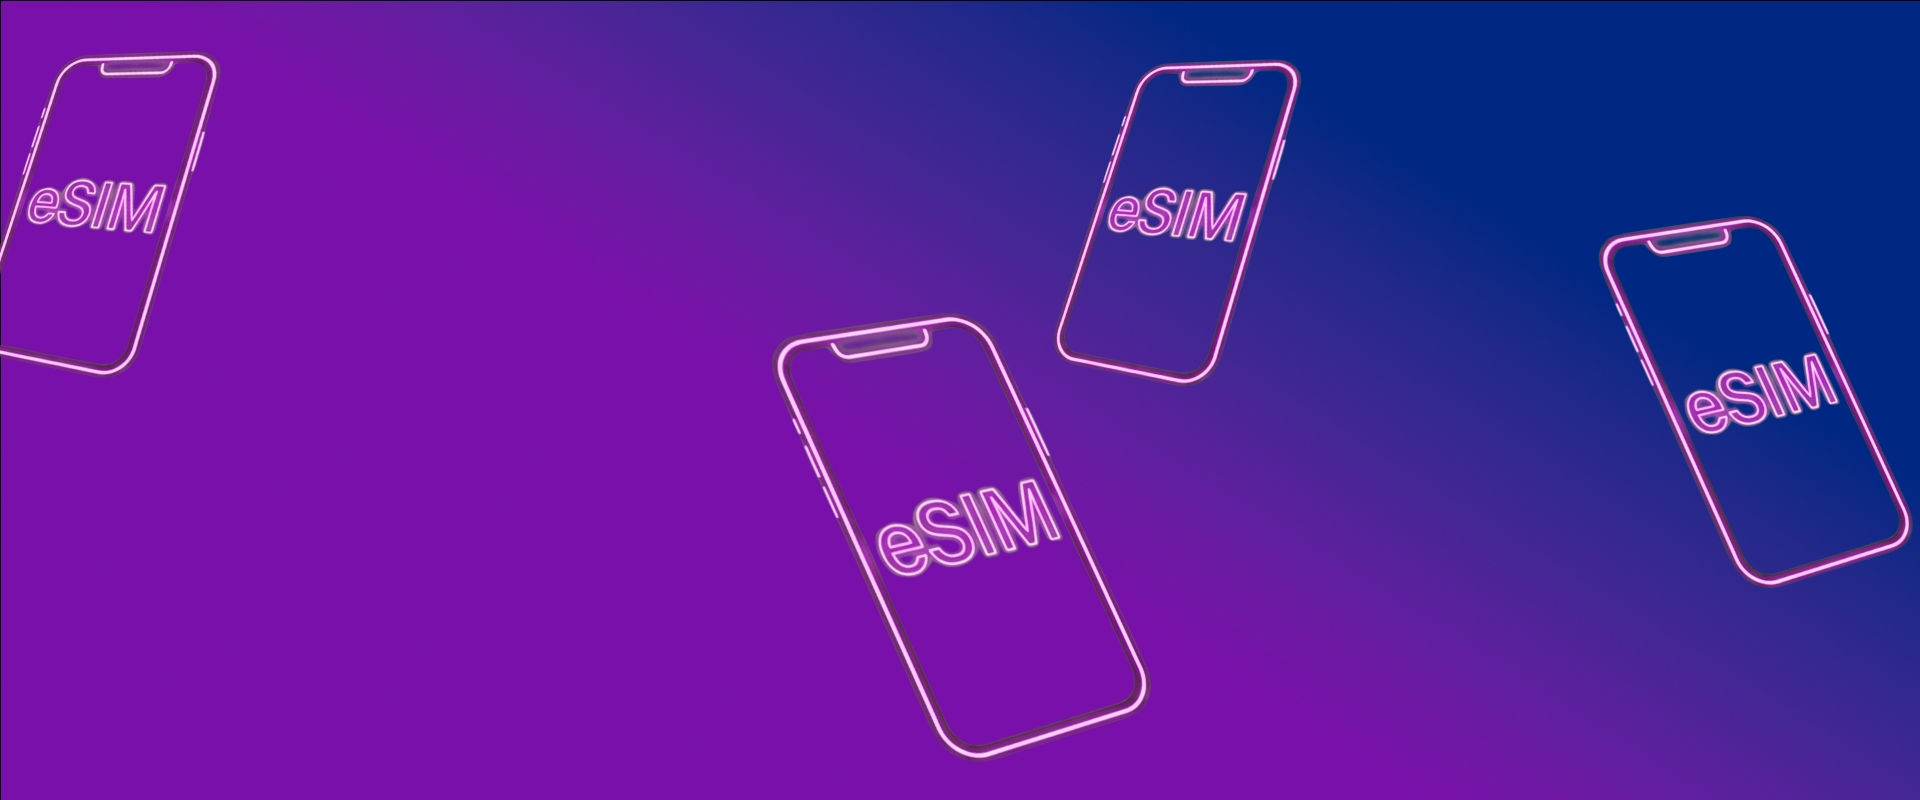
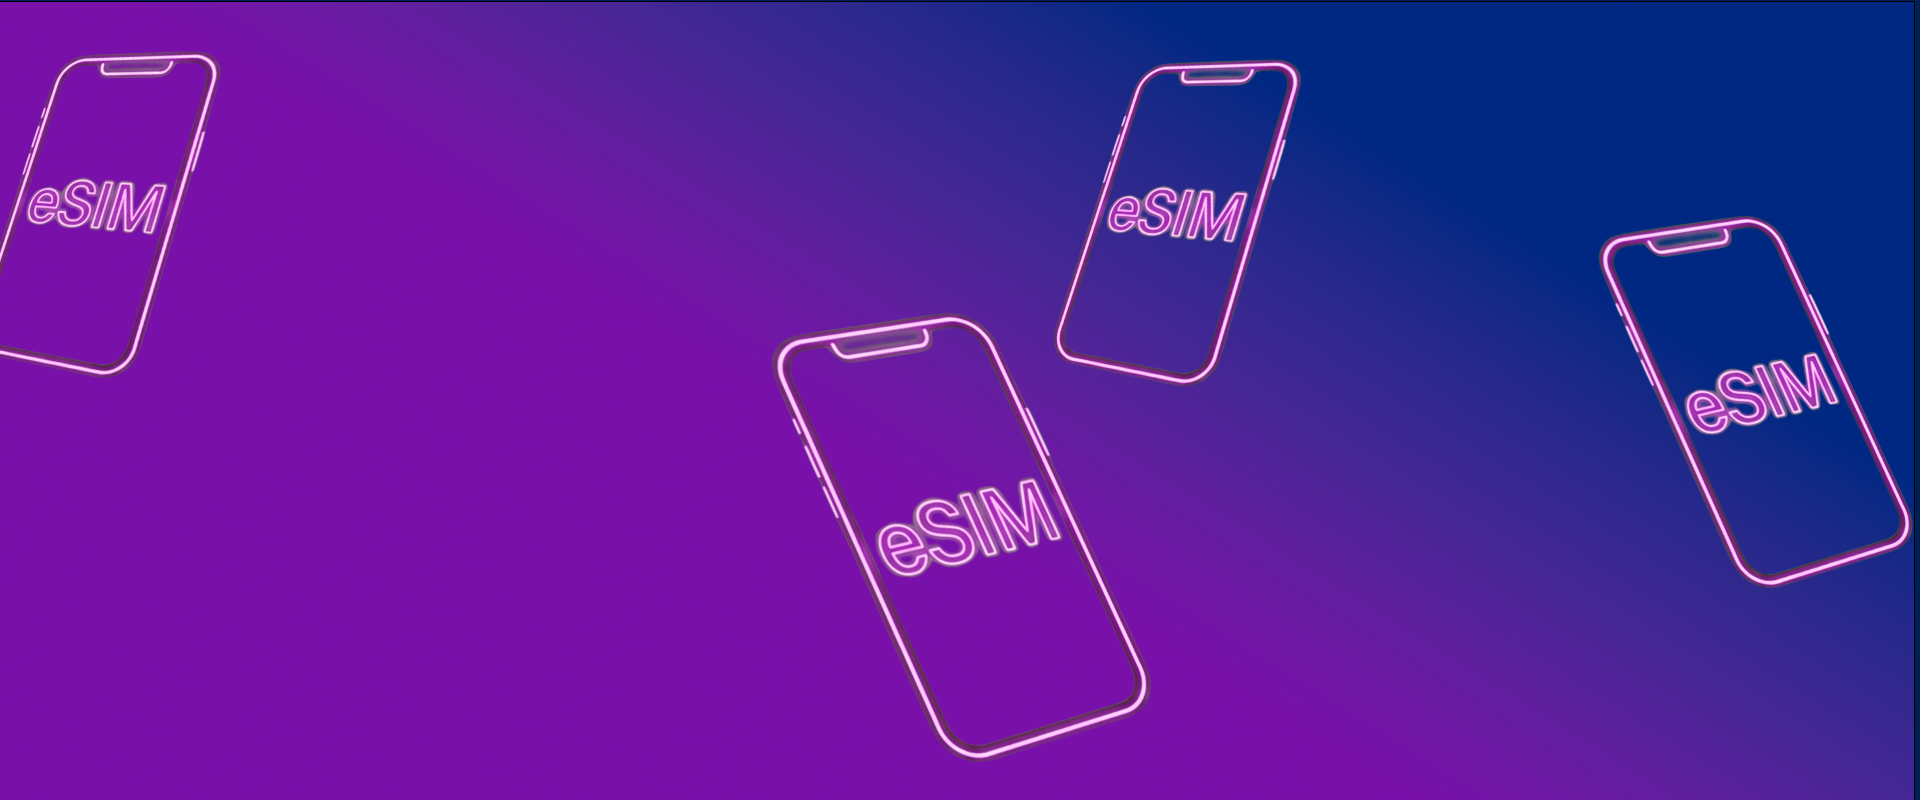
Ajustes Visuales

Changed region(s): [[0.9688, 0.0, 1.0, 0.0312]]

diff --git a/apps/web/src/pages/landing/movistar/v1/HeroMovistar.tsx b/apps/web/src/pages/landing/movistar/v1/HeroMovistar.tsx
@@ -39,7 +39,12 @@ export function Hero() {
             <img
                 src="/assets/maxi_avatar.png"
                 alt="Maxi"
-                className="hidden md:block absolute bottom-0 left-1/2 -translate-x-1/2 lg:translate-x-[-45%] h-[110%] max-h-125 w-auto object-contain drop-shadow-2xl pointer-events-none select-none z-10"
+                className="hidden md:block absolute bottom-0 left-[55%] -translate-x-1/2 lg:translate-x-[-45%] h-[110%] max-h-125 w-auto object-contain drop-shadow-2xl pointer-events-none select-none z-10"
+            />
+            <img
+                src="/assets/logo-movistar.png"
+                alt="Maxi"
+                className="hidden md:block absolute top-20 left-[45%] -translate-x-1/2 lg:translate-x-[-45%] h-[10%] max-h-125 w-auto object-contain drop-shadow-2xl pointer-events-none select-none z-10"
             />
             <div className="relative mx-auto max-w-full px-4 py-3 md:py-7 flex flex-col md:flex-row items-center gap-6 md:gap-10">
                 {/* Copy izquierdo */}

diff --git a/apps/web/src/pages/landing/att/v1/HeroAtt.tsx b/apps/web/src/pages/landing/att/v1/HeroAtt.tsx
@@ -39,7 +39,13 @@ export function Hero() {
             <img
                 src="/assets/att_avatar.png"
                 alt="Maxi"
-                className="hidden md:block absolute bottom-0 left-1/2 -translate-x-1/2 lg:translate-x-[-45%] h-[110%] max-h-125 w-auto object-contain drop-shadow-2xl pointer-events-none select-none z-10"
+                className="hidden md:block absolute bottom-0 left-[55%] -translate-x-1/2 lg:translate-x-[-45%] h-[110%] max-h-125 w-auto object-contain drop-shadow-2xl pointer-events-none select-none z-10"
+            />
+
+             <img
+                src="/assets/logo_att.png"
+                alt="Maxi"
+                className="hidden md:block absolute top-20 left-[45%] -translate-x-1/2 lg:translate-x-[-45%] h-[15%] max-h-125 w-auto object-contain drop-shadow-2xl pointer-events-none select-none z-10"
             />
             <div className="relative mx-auto max-w-full px-4 py-3 md:py-7 flex flex-col md:flex-row items-center gap-6 md:gap-10">
                 {/* Copy izquierdo */}

diff --git a/apps/web/src/pages/landing/bait/v1/HeroBait.tsx b/apps/web/src/pages/landing/bait/v1/HeroBait.tsx
@@ -39,7 +39,12 @@ export function Hero() {
             <img
                 src="/assets/bait_avatar.png"
                 alt="Maxi"
-                className="hidden md:block absolute bottom-0 left-1/2 translate-x-1/2 lg:translate-x-[-45%] h-[110%] max-h-125 w-auto object-contain drop-shadow-2xl pointer-events-none select-none z-10"
+                className="hidden md:block absolute bottom-0 left-[55%] translate-x-1/2 lg:translate-x-[-45%] h-[110%] max-h-125 w-auto object-contain drop-shadow-2xl pointer-events-none select-none z-10"
+            />
+            <img
+                src="/assets/logo-bait.png"
+                alt="Maxi"
+                className="hidden md:block absolute top-20 left-[44%] -translate-x-1/2 lg:translate-x-[-45%] h-[17%] max-h-125 w-auto object-contain drop-shadow-2xl pointer-events-none select-none z-10"
             />
             <div className="relative mx-auto max-w-full px-4 py-3 md:py-7 flex flex-col md:flex-row items-center gap-6 md:gap-10">
                 {/* Copy izquierdo */}

diff --git a/apps/web/src/pages/landing/movistar/v1/PlanesSectionMovistar.tsx b/apps/web/src/pages/landing/movistar/v1/PlanesSectionMovistar.tsx
@@ -73,7 +73,7 @@ export function PlanesSectionMovistar() {
                     <>
                         <div className="hidden md:flex px-20 flex-wrap justify-center items-stretch gap-4">
                             {planes.map((plan) => (
-                                <div key={plan.id} className="w-full sm:w-[45%] lg:w-[30%] xl:w-[23%] max-w-[280px]">
+                                <div key={plan.id} className="w-full sm:w-[45%] lg:w-[30%] xl:w-[23%] max-w-70">
                                     <PlanCard plan={plan} />
                                 </div>
                             ))}
